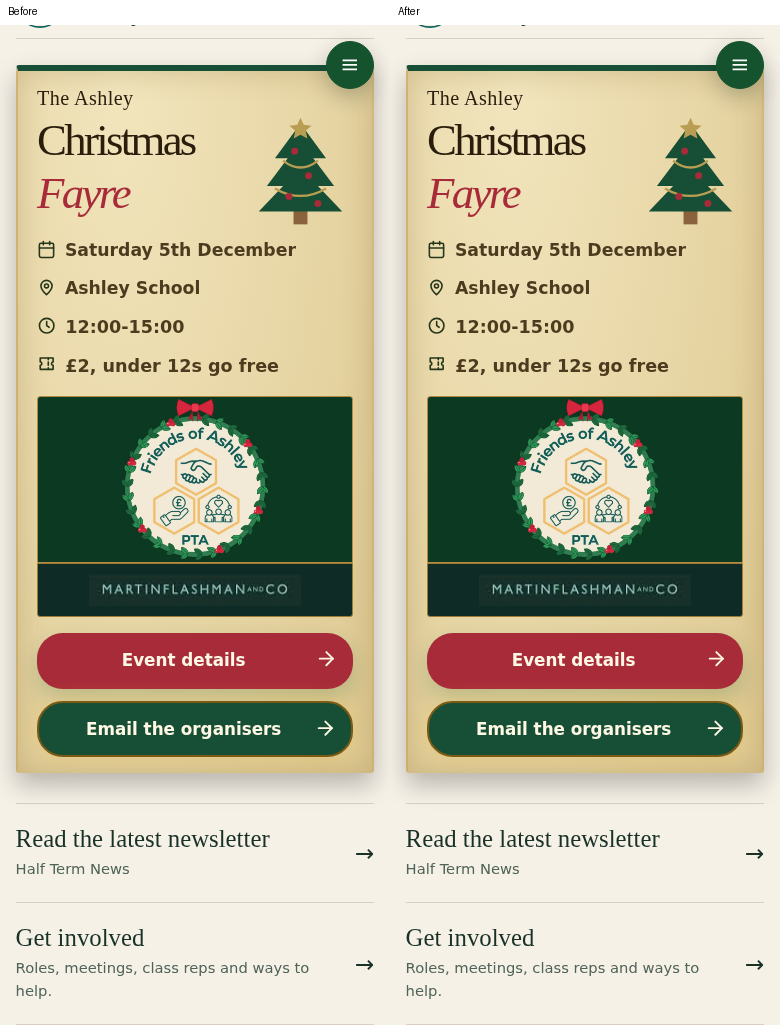
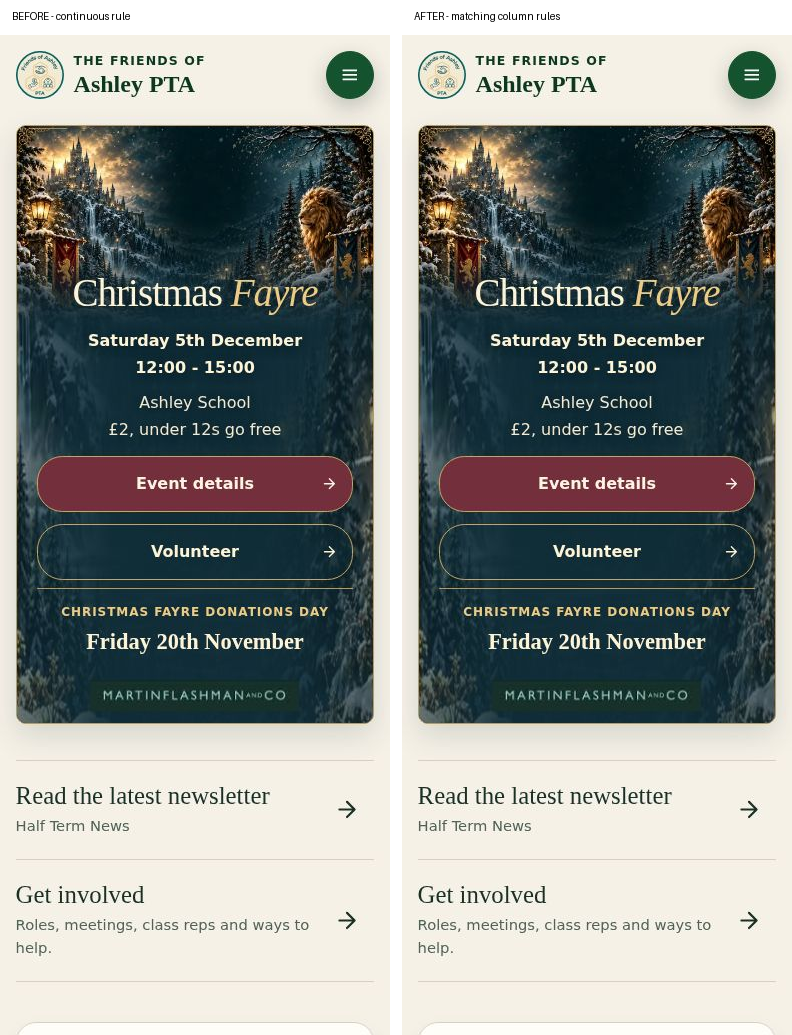
[CF-Pages-Skip] Match homepage link top rules to each column

diff --git a/src/styles/christmas-home.css b/src/styles/christmas-home.css
@@ -5,7 +5,7 @@
 
 @media(min-width:64rem){.homepage .hero-event .christmas-home-art .hero-actions{flex-direction:row;flex-wrap:wrap;align-items:stretch}.homepage .hero-event .christmas-home-art .hero-actions .button.christmas-home-email{flex:1 1 100%}.homepage .hero-event .christmas-home-art .hero-actions .button{flex:1;min-width:0;width:auto;padding-inline:.65rem}}
 
-@media(min-width:64rem){.homepage .hero-event[data-homepage-christmas]{padding-bottom:1rem}.homepage [data-homepage-christmas] .christmas-home-admission{display:flex;flex-direction:column;align-items:flex-start;gap:.75rem}.homepage .hero-links{width:100%;grid-column:1/-1;display:grid;grid-template-columns:repeat(2,minmax(0,1fr));gap:2rem;max-width:none;align-items:stretch;border-top:0}.homepage .hero-links .quick-row{height:100%;align-items:center}}
+@media(min-width:64rem){.homepage .hero-event[data-homepage-christmas]{padding-bottom:1rem}.homepage [data-homepage-christmas] .christmas-home-admission{display:flex;flex-direction:column;align-items:flex-start;gap:.75rem}.homepage .hero-links{width:100%;grid-column:1/-1;display:grid;grid-template-columns:repeat(2,minmax(0,1fr));gap:2rem;max-width:none;align-items:stretch}.homepage .hero-links .quick-row{height:100%;align-items:center}}
 
 @media(max-width:47.99rem){
  .homepage [data-homepage-christmas] .hero-when{margin-top:1.5rem}

diff --git a/tests/e2e/homepage-link-rules.spec.ts b/tests/e2e/homepage-link-rules.spec.ts
@@ -1,0 +1,10 @@
+import {expect,test} from '@playwright/test';
+for(const width of [390,1024,1440])for(const theme of ['day','night'])for(const scale of [1,2])test(`homepage link rules match columns ${width} ${theme} text${scale}`,async({page})=>{
+ await page.setViewportSize({width,height:1000});await page.goto('/');await page.evaluate(({theme,scale})=>{document.documentElement.dataset.theme=theme;document.documentElement.style.fontSize=16*scale+'px'},{theme,scale});
+ const list=page.locator('.hero-links');const desktop=await page.evaluate(()=>matchMedia('(min-width:64rem)').matches);
+ await expect(list).toHaveCSS('border-top-width',desktop?'0px':'1px');
+ const rows=await list.locator('.quick-row').evaluateAll(els=>els.map(el=>{const s=getComputedStyle(el),r=el.getBoundingClientRect();return{top:s.borderTopWidth,bottom:s.borderBottomWidth,tc:s.borderTopColor,bc:s.borderBottomColor,x:r.x,y:r.y,right:r.right}}));
+ expect(rows).toHaveLength(2);for(const row of rows){expect(row.bottom).toBe('1px');expect(row.top).toBe(desktop?'1px':'0px');if(desktop)expect(row.tc).toBe(row.bc)}
+ if(desktop){expect(rows[0].right).toBeLessThan(rows[1].x);expect(rows[0].y).toBeCloseTo(rows[1].y,0)}
+ await expect(page.locator('.narnia-donations')).toHaveCount(1);expect(await page.evaluate(()=>document.documentElement.scrollWidth<=innerWidth)).toBe(true);
+});
